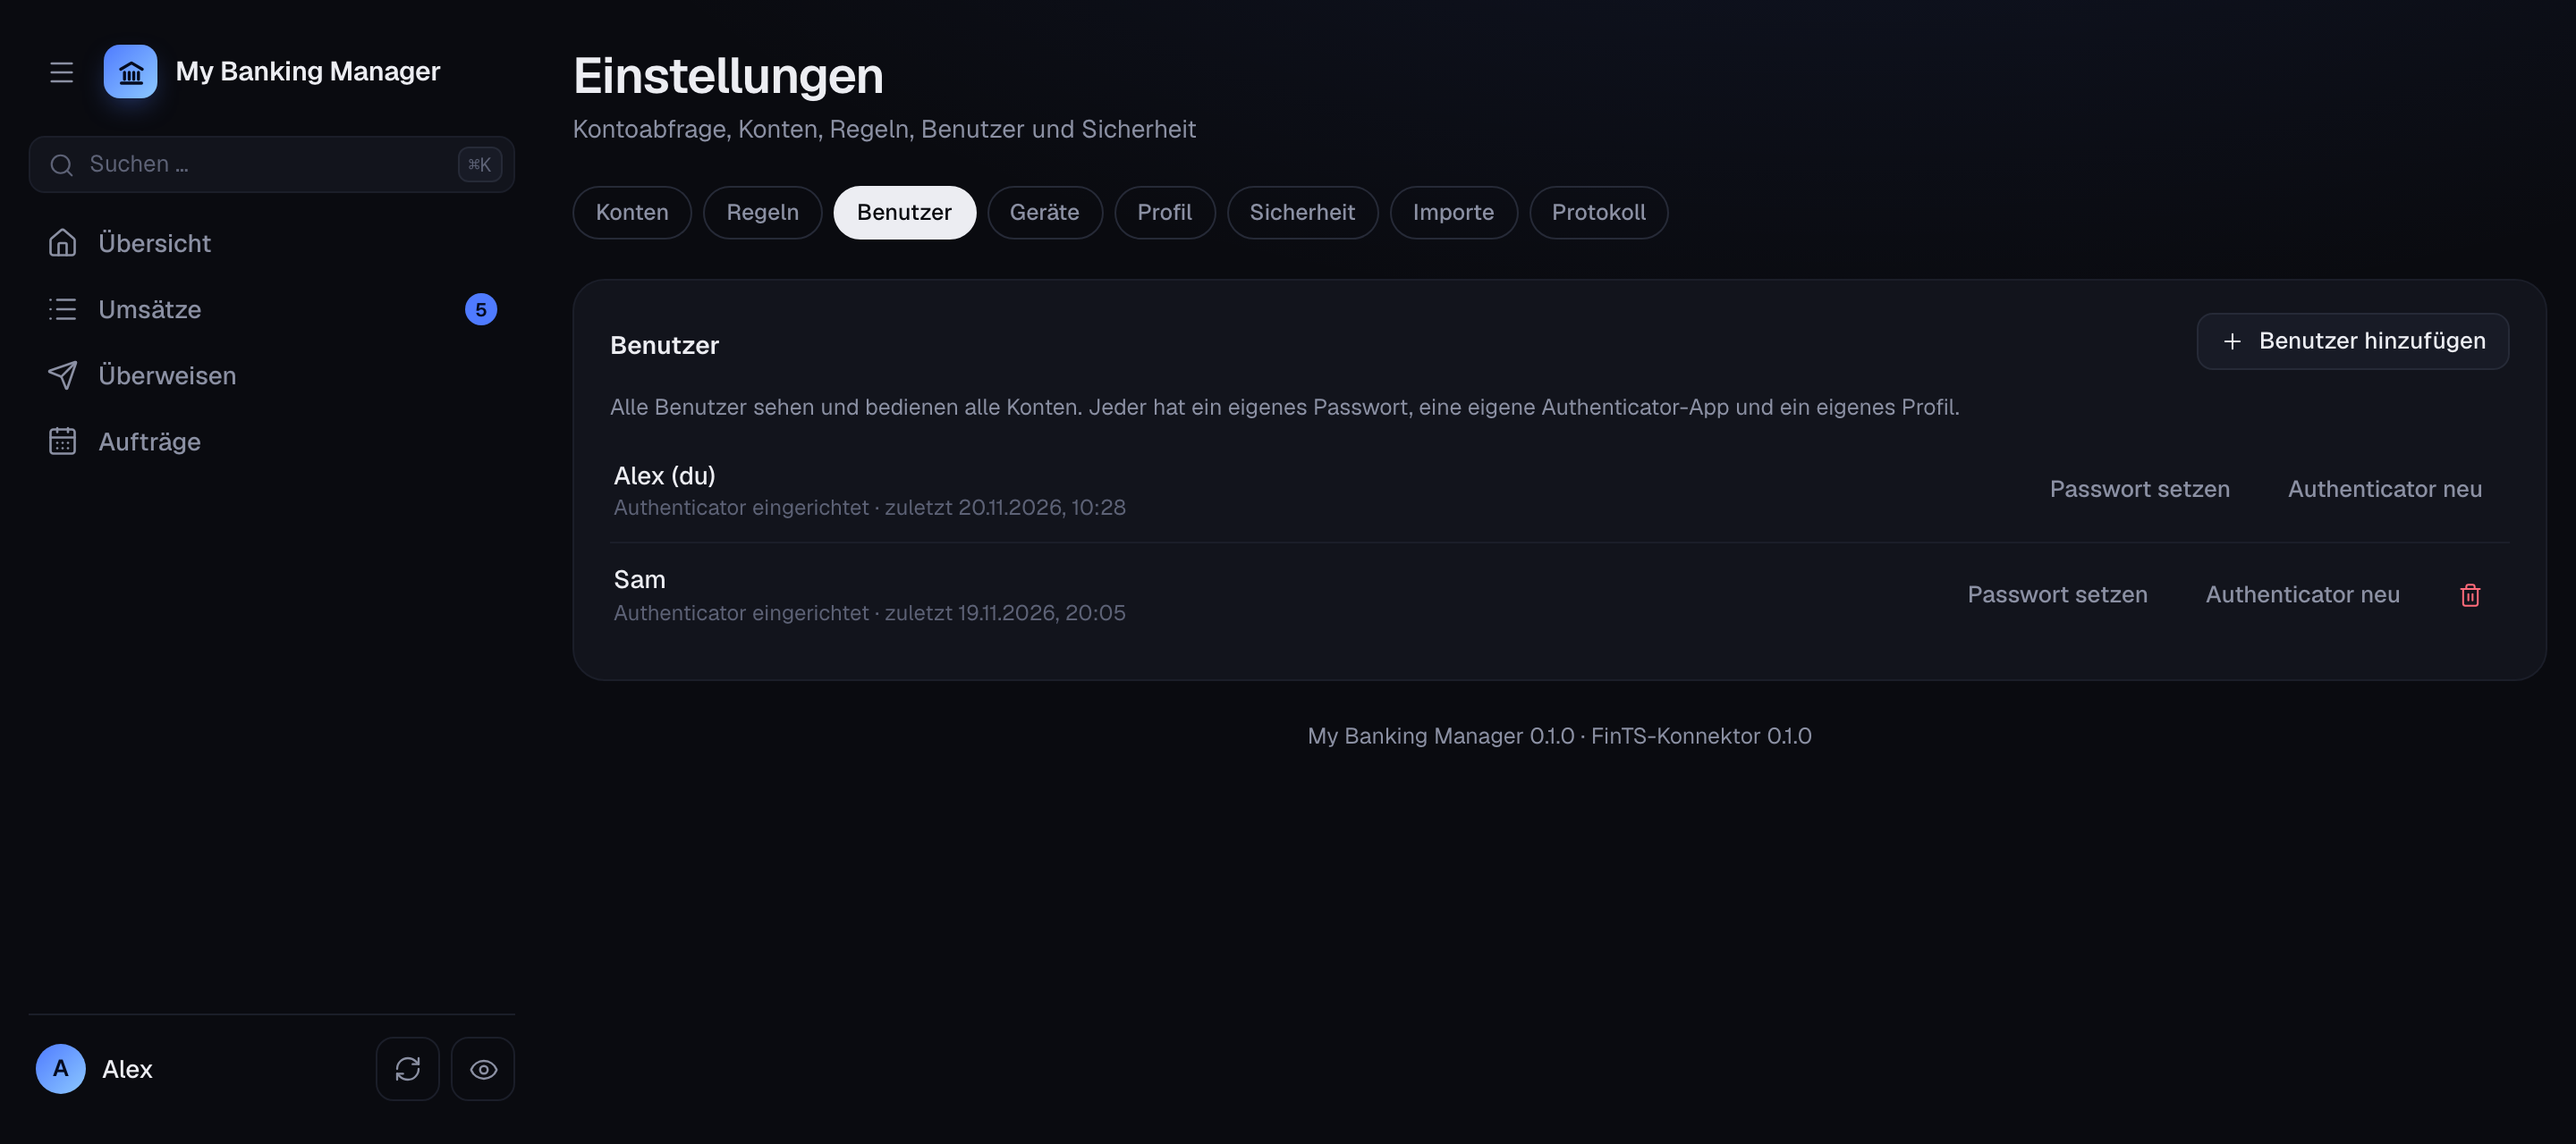
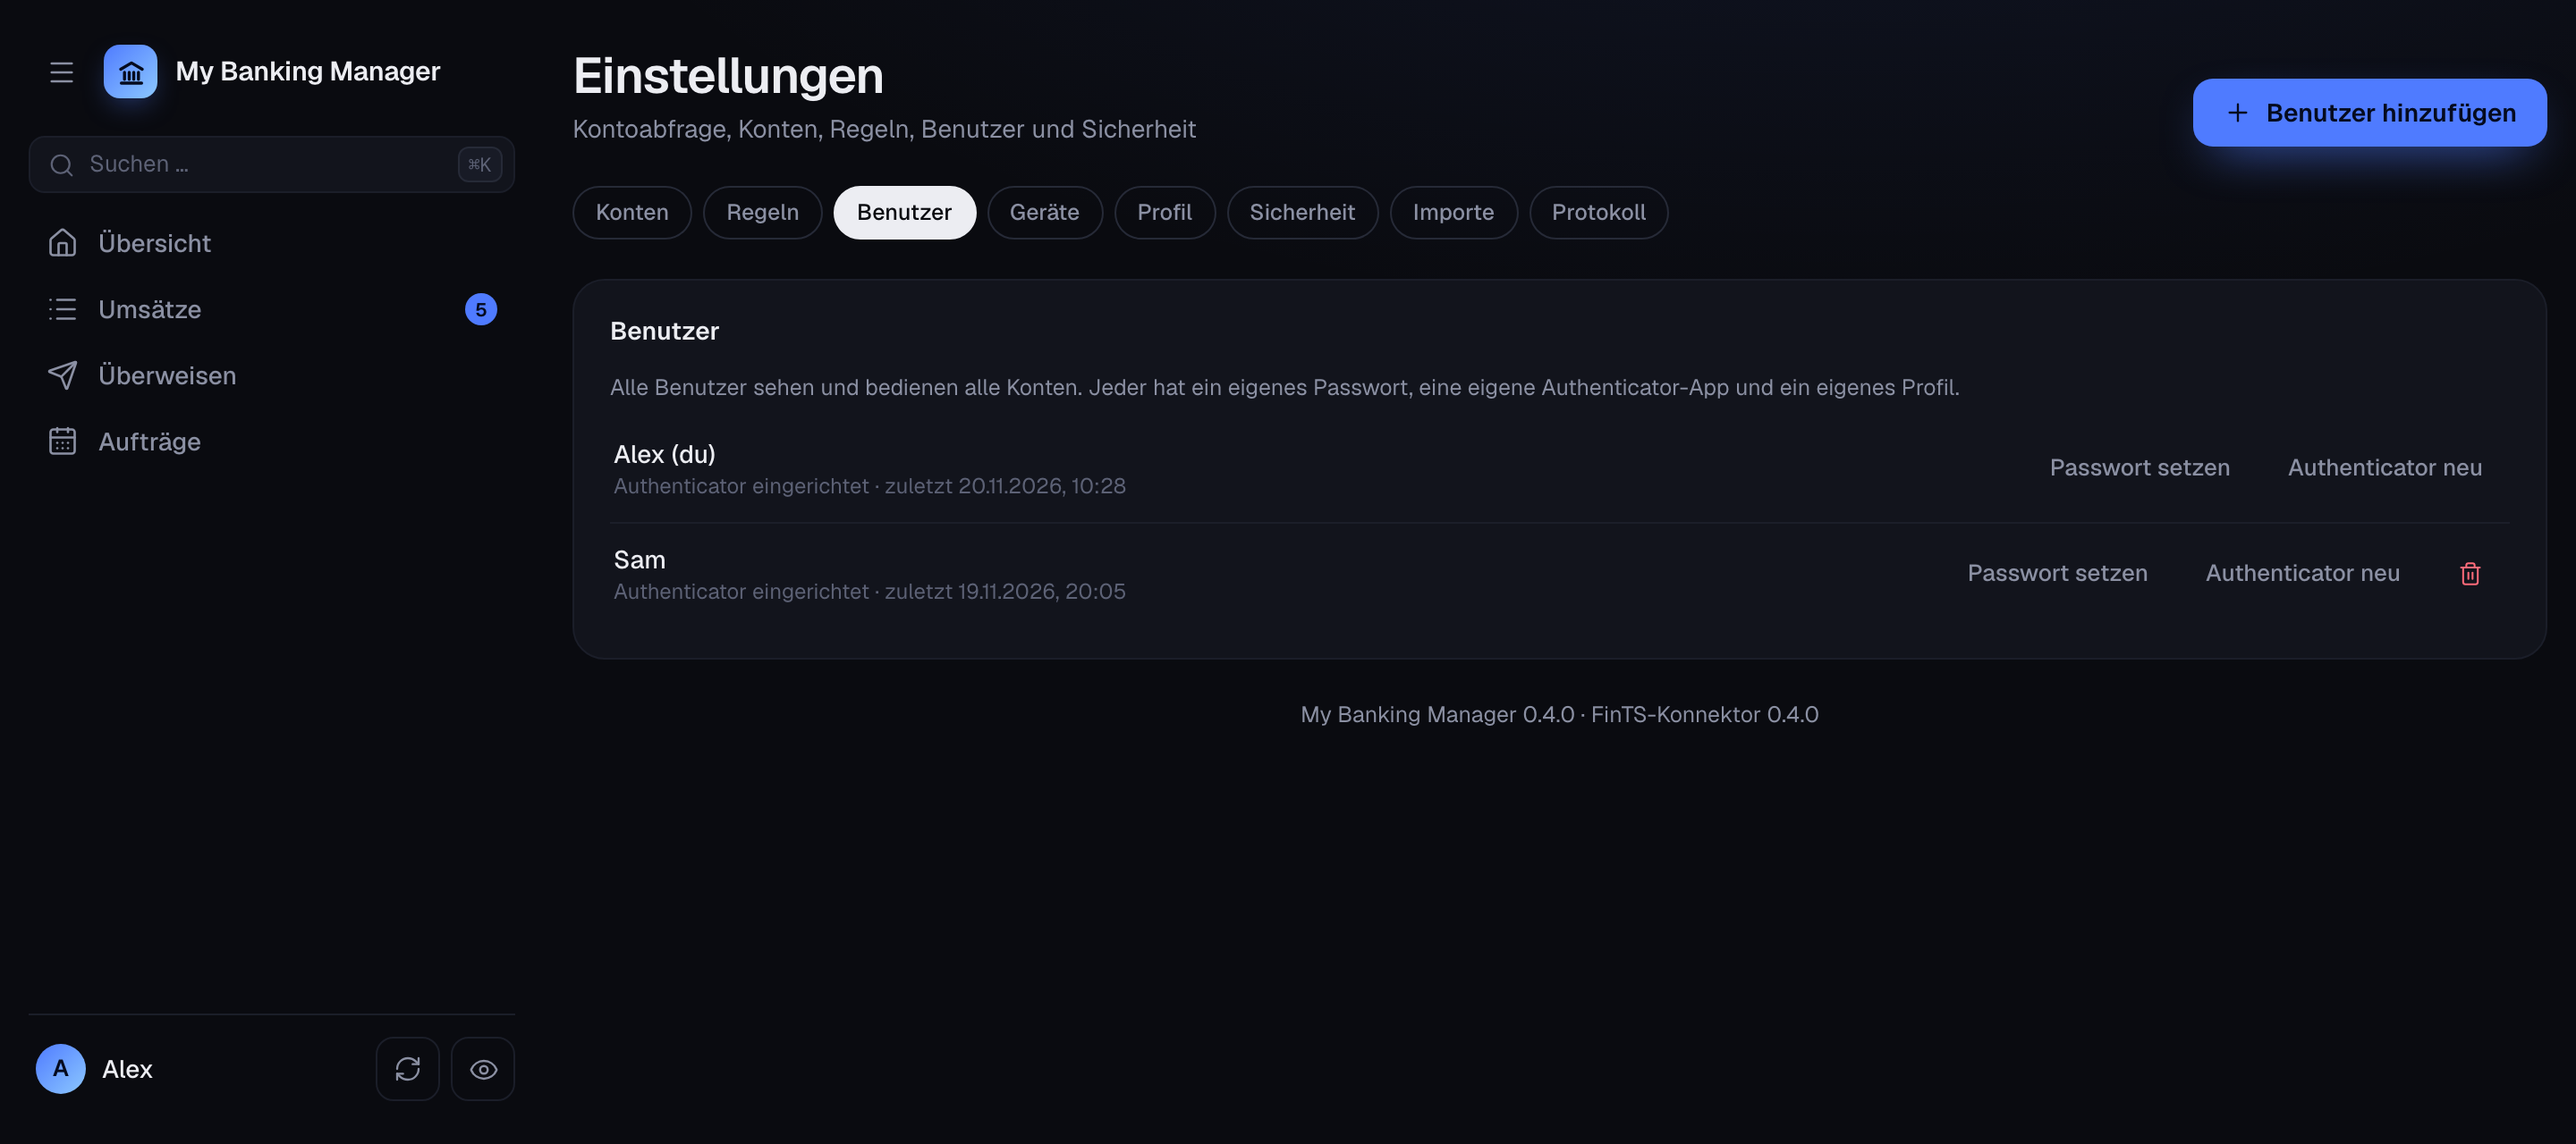
feat(einstellungen): Benutzer über den Seitenkopf hinzufügen

diff --git a/clients/web/src/pages/Settings.tsx b/clients/web/src/pages/Settings.tsx
@@ -26,6 +26,7 @@ import { RulesTab } from "./Rules";
 export function SettingsPage() {
     const { tab = "accounts" } = settingsRoute.useSearch();
     const navigate = useNavigate();
+    const [addingUser, setAddingUser] = useState(false);
     return (
         <>
             <div className="page-head">
@@ -46,6 +47,14 @@ export function SettingsPage() {
                         <button className="btn btn-primary" onClick={() => void navigate({ to: "/settings", search: { tab: "rules", new: true } })}>
                             <Ic icon={Plus} size={16} />
                             Regel hinzufügen
+                        </button>
+                    </div>
+                )}
+                {tab === "users" && (
+                    <div className="head-actions">
+                        <button className="btn btn-primary" onClick={() => setAddingUser(true)}>
+                            <Ic icon={Plus} size={16} />
+                            Benutzer hinzufügen
                         </button>
                     </div>
                 )}
@@ -74,6 +83,7 @@ export function SettingsPage() {
             {tab === "imports" && <ImportsTab />}
             {tab === "activity" && <ActivityTab />}
             <Versions />
+            {addingUser && <NewUserDialog onClose={() => setAddingUser(false)} />}
         </>
     );
 }
@@ -181,16 +191,11 @@ function UsersTab() {
     const usersQuery = useUsers();
     const users = usersQuery.data ?? [];
     const me = useMe(true).data as Me | undefined;
-    const [adding, setAdding] = useState(false);
     const [pwFor, setPwFor] = useState<{ id: number; name: string } | null>(null);
     return (
         <section className="panel">
             <div className="panel-head">
                 <h3>Benutzer</h3>
-                <button className="btn btn-sm" onClick={() => setAdding(true)}>
-                    <Ic icon={Plus} size={14} />
-                    Benutzer hinzufügen
-                </button>
             </div>
             <p className="muted small" style={{ marginBottom: 8 }}>Alle Benutzer sehen und bedienen alle Konten. Jeder hat ein eigenes Passwort, eine eigene Authenticator-App und ein eigenes Profil.</p>
             {usersQuery.isPending && <SkeletonRows rows={2} plain />}
@@ -252,8 +257,7 @@ function UsersTab() {
                     </div>
                 ))}
             </div>
-            {adding && <NewUserDialog onClose={() => setAdding(false)} />}
-            {pwFor && <SetPasswordDialog user={pwFor} onClose={() => setPwFor(null)} />}
+            {pwFor &&<SetPasswordDialog user={pwFor} onClose={() => setPwFor(null)} />}
         </section>
     );
 }

diff --git a/.release/next.md b/.release/next.md
@@ -27,6 +27,7 @@ Nothing inside an HTML comment is published.
 - Die Suche mit `*` und `?` kann den Server nicht mehr durch ungünstige Muster blockieren.
 - Beim Ändern einer Buchung von Hand bleiben Felder, die nicht mitgesendet werden, jetzt erhalten.
 - Überschrift und Beschreibung der Seiten für den Import und das Ausführen von Regeln nutzen jetzt in jedem Schritt die volle Breite.
+- „Benutzer hinzufügen“ liegt jetzt wie bei Konten und Regeln oben rechts in den Einstellungen.
 
 ### Update
 
